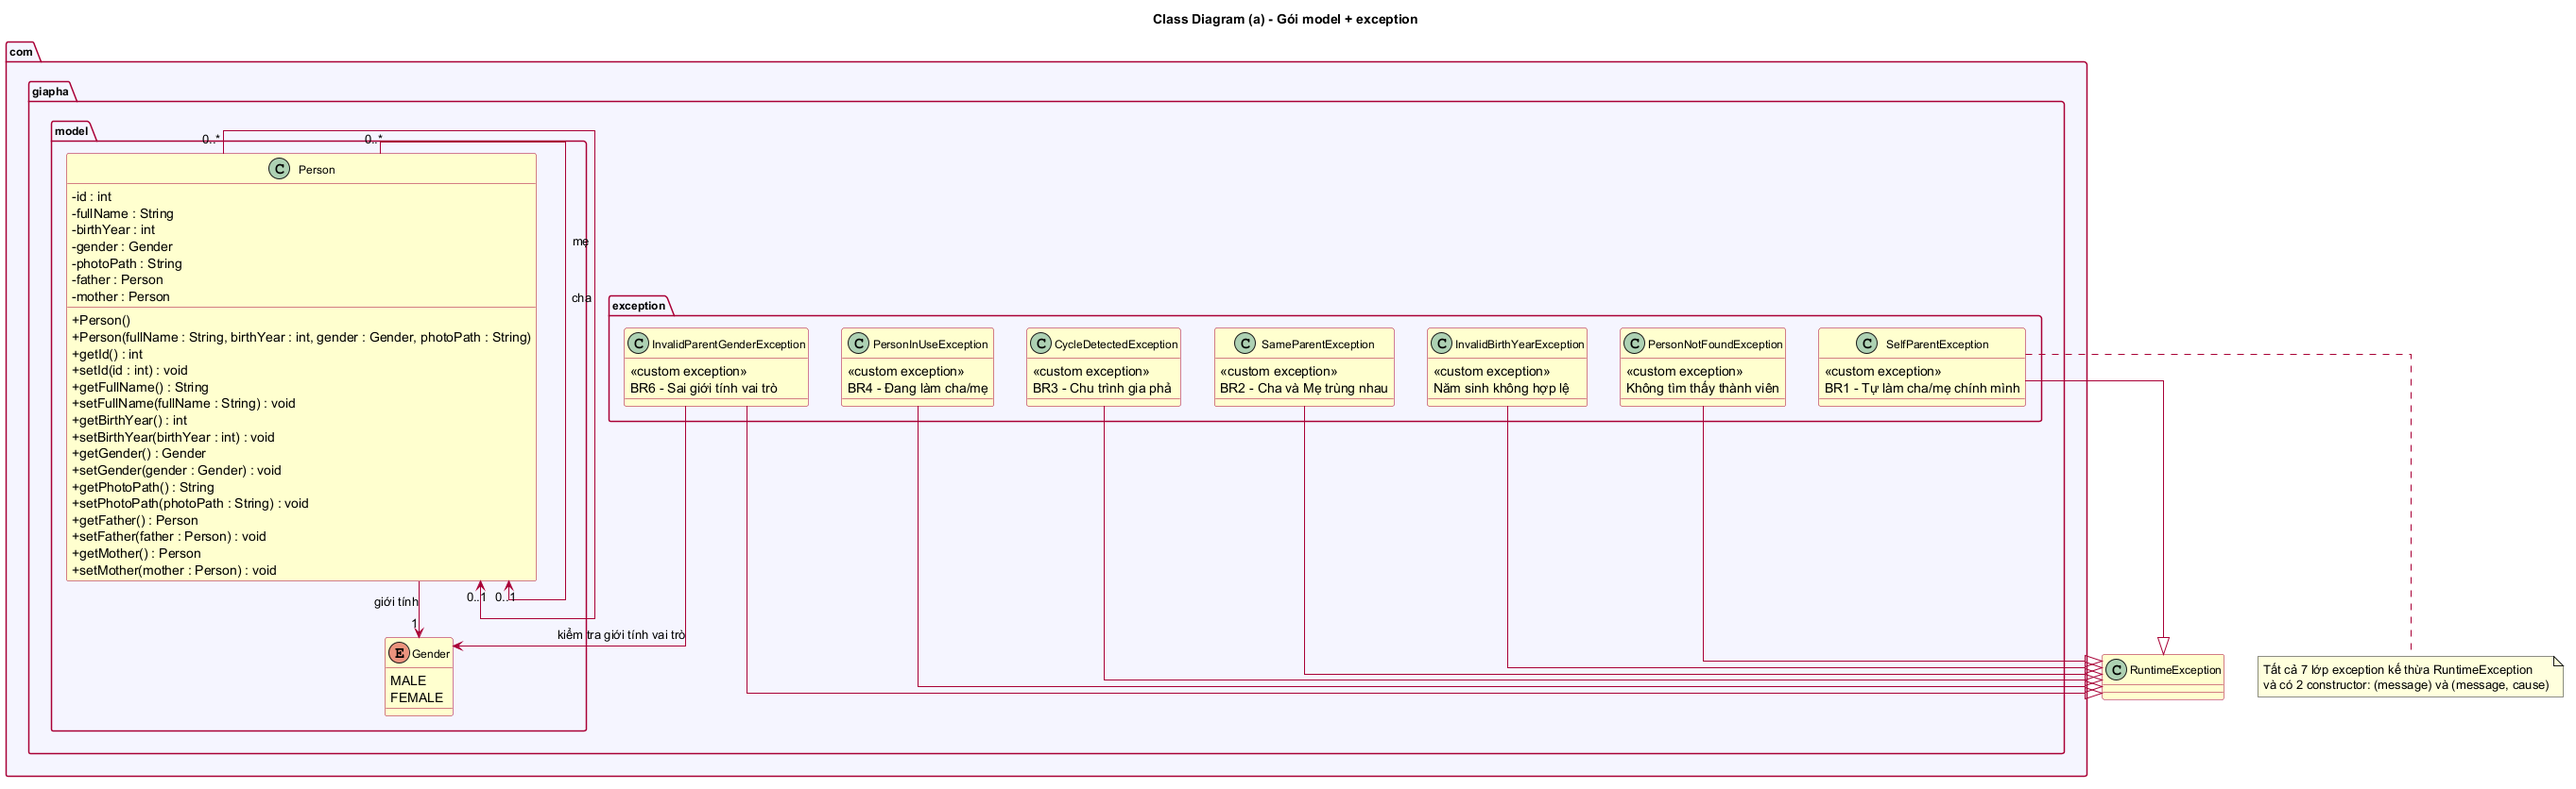
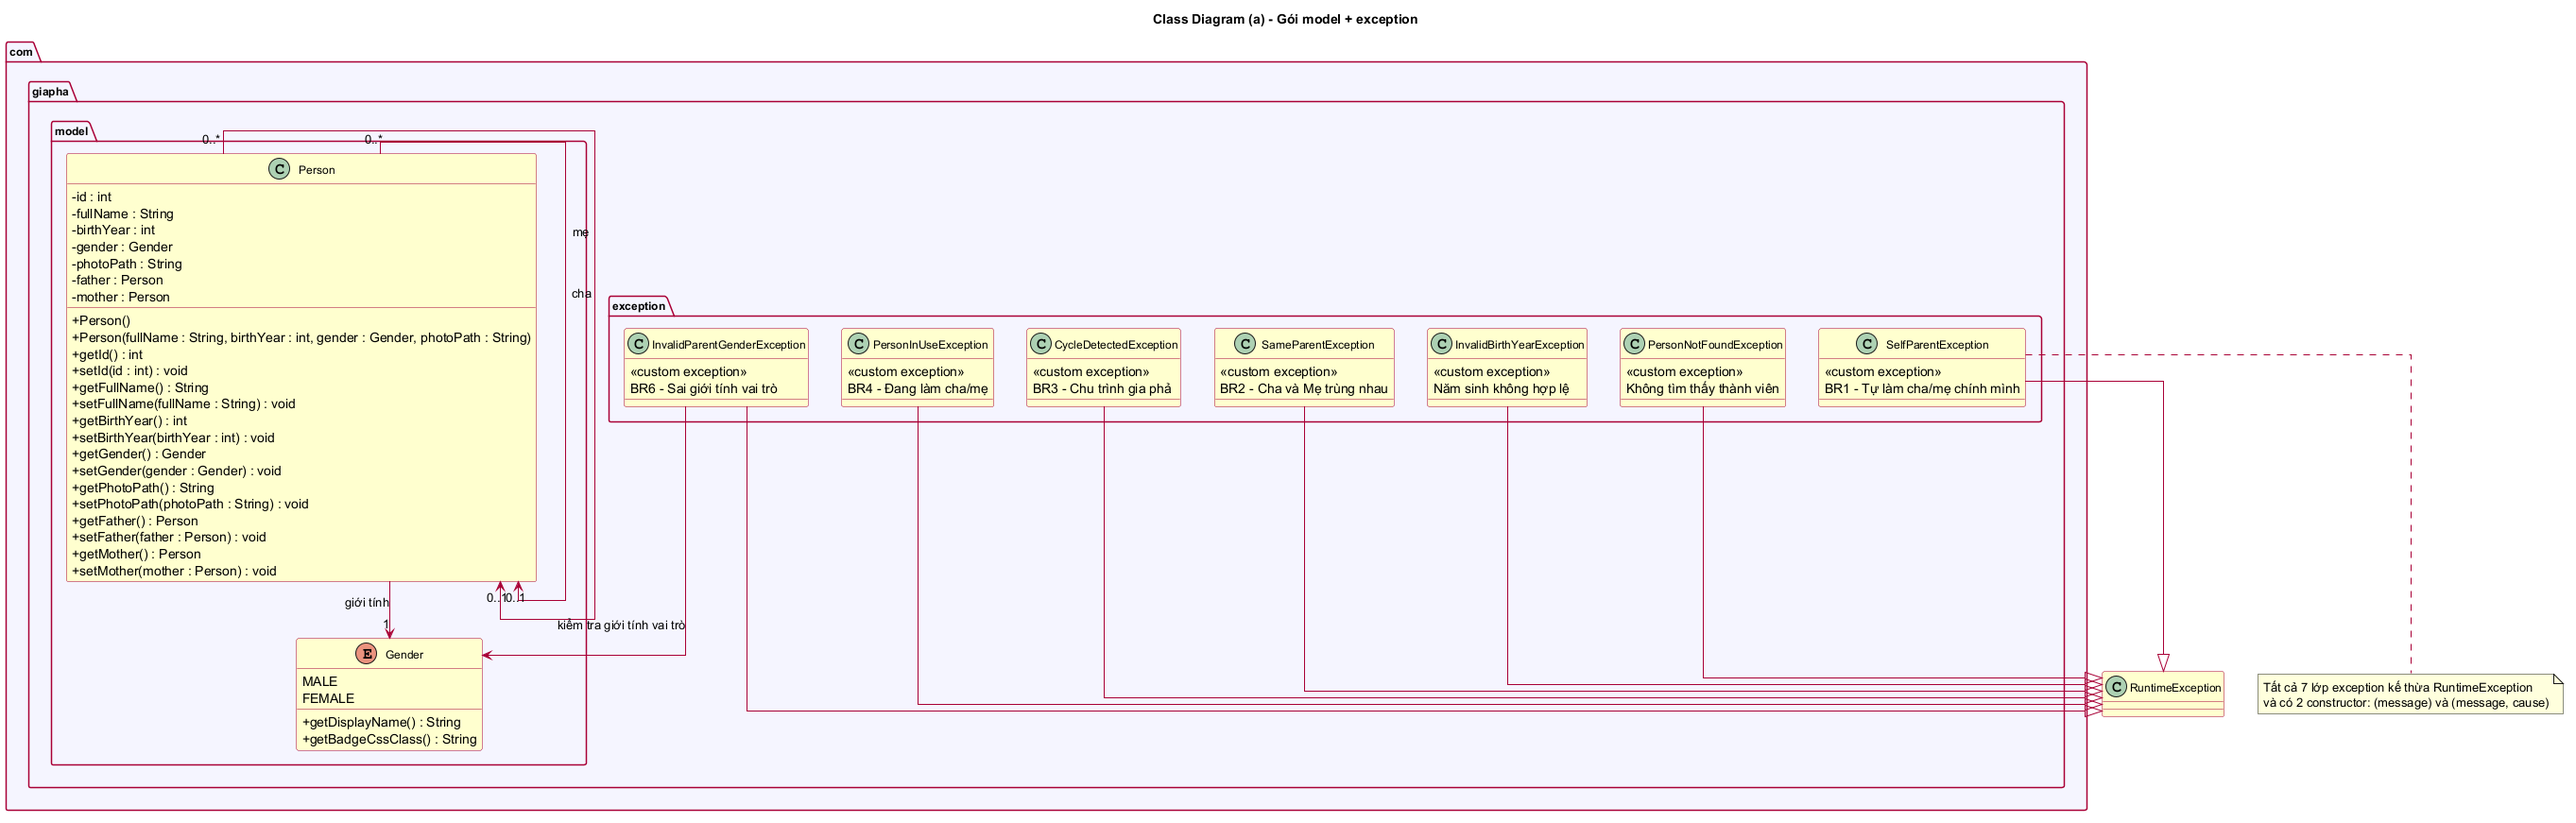
test: cover Gender display helpers and PersonAvatar update method

Changed region(s): [[0.0, 0.0622, 0.8107, 0.9952], [0.343, 0.8086, 0.9978, 0.9019], [0.4365, 0.0, 0.5613, 0.0311]]

diff --git a/docs/report/bao-cao-draft.md b/docs/report/bao-cao-draft.md
@@ -12,7 +12,7 @@
 | **Ngôn ngữ / nền tảng** | Java 25, JavaFX 23, MySQL/MariaDB, JDBC thuần, Maven |
 | **Mô hình kiến trúc** | Kiến trúc phân tầng (Layered Architecture) + MVC |
 | **Module hệ thống** | JPMS — module `com.giapha` (`module-info.java`) |
-| **Kiểm thử** | JUnit 5 — 138 test mặc định + 26 test tag `javafx` |
+| **Kiểm thử** | JUnit 5 — 188 test mặc định + 30 test tag `javafx` |
 | **Mã nguồn** | <https://github.com/minhchien170704/do-an-gia-pha> |
 
 ---
@@ -693,15 +693,18 @@ Bộ kiểm thử dùng **JUnit 5** (`junit-jupiter` 5.10.2) + `maven-surefire-p
 |---|---|---|
 | `FamilyTreeServiceTest` | 44 | BR1–BR6, TC01–TC14, TC-CLEAR-01…05, cô lập dữ liệu |
 | `PersonControllerTest` | 25 | Điều phối View ↔ Service, xử lý exception, callback điều hướng |
+| `PersonControllerAbstractionTest` | 23 | Fake `FormDataSource`/`Navigator`/`PeopleListSource` — KHÔNG cần JavaFX Toolkit |
 | `LargeSampleDataTest` | 22 | Bộ dữ liệu mẫu 30 người / 5 thế hệ (BR1–BR6, validation, ràng buộc CSDL, an toàn DROP DB) |
+| `DataIntegrityTest` | 19 | GĐ1: toàn vẹn dữ liệu ảnh + đồng nhất BR1–BR6 |
 | `ImageManagerTest` | 12 | Định dạng ảnh, copy vào `./images/`, dọn file an toàn |
 | `PngWriterTest` | 11 | Chữ ký PNG, khối IHDR/IDAT/IEND, CRC32, nén zlib |
 | `AtomicUpdateAndBr5Test` | 9 | Cập nhật nguyên tử (cha/mẹ + thông tin cá nhân), BR5 trong luồng lưu của form |
+| `GenderTest` | 8 | Nhãn hiển thị + CSS class của enum `Gender` — KHÔNG cần JavaFX Toolkit |
 | `DatabaseConnectionTest` | 7 | Kết nối MySQL, metadata, bảng `PERSON`, kiểm chứng DB chính không bị đổi |
 | `JdbcPersonRepositoryConnectionTest` | 5 | Quyền sở hữu `Connection`: repo tự mở thì tự đóng, Connection ngoài thì không đóng |
 | `BackendInitializationTest` | 3 | Kiểm tra kết nối MySQL thật trước khi hiển thị giao diện |
-| **Tổng (mặc định)** | **138** | `mvn clean test` |
-| `AvatarFallbackTest` + `JavaFxViewTest` (tag `javafx`) | 26 | Chạy riêng bằng `mvn test -Pjavafx-tests` |
+| **Tổng (mặc định)** | **188** | `mvn clean test` |
+| `AvatarFallbackTest` + `JavaFxViewTest` (tag `javafx`) | 30 | Chạy riêng bằng `mvn test -Pjavafx-tests` |
 
 ### 5.3. Bảng test case — bộ dữ liệu mẫu 30 người / 5 thế hệ
 
@@ -768,10 +771,13 @@ mvn clean test
 Kết quả thu được trên môi trường phát triển (Windows, JDK 25, MySQL/MariaDB đang chạy):
 
 ```
-[INFO] Tests run: 25, Failures: 0, Errors: 0, Skipped: 0 -- in com.giapha.controller.PersonControllerTest
 [INFO] Tests run:  9, Failures: 0, Errors: 0, Skipped: 0 -- in com.giapha.controller.AtomicUpdateAndBr5Test
+[INFO] Tests run: 19, Failures: 0, Errors: 0, Skipped: 0 -- in com.giapha.controller.DataIntegrityTest
+[INFO] Tests run: 23, Failures: 0, Errors: 0, Skipped: 0 -- in com.giapha.controller.PersonControllerAbstractionTest
+[INFO] Tests run: 25, Failures: 0, Errors: 0, Skipped: 0 -- in com.giapha.controller.PersonControllerTest
 [INFO] Tests run:  3, Failures: 0, Errors: 0, Skipped: 0 -- in com.giapha.database.BackendInitializationTest
 [INFO] Tests run:  7, Failures: 0, Errors: 0, Skipped: 0 -- in com.giapha.database.DatabaseConnectionTest
+[INFO] Tests run:  8, Failures: 0, Errors: 0, Skipped: 0 -- in com.giapha.model.GenderTest
 [INFO] Tests run:  5, Failures: 0, Errors: 0, Skipped: 0 -- in com.giapha.repository.JdbcPersonRepositoryConnectionTest
 [INFO] Tests run: 44, Failures: 0, Errors: 0, Skipped: 0 -- in com.giapha.service.FamilyTreeServiceTest$DataIsolation
 [INFO] Tests run:  0, Failures: 0, Errors: 0, Skipped: 0 -- in com.giapha.service.FamilyTreeServiceTest
@@ -779,25 +785,25 @@ Kết quả thu được trên môi trường phát triển (Windows, JDK 25, My
 [INFO] Tests run: 12, Failures: 0, Errors: 0, Skipped: 0 -- in com.giapha.util.ImageManagerTest
 [INFO] Tests run: 11, Failures: 0, Errors: 0, Skipped: 0 -- in com.giapha.util.PngWriterTest
 [INFO] Results:
-[INFO] Tests run: 138, Failures: 0, Errors: 0, Skipped: 0
+[INFO] Tests run: 188, Failures: 0, Errors: 0, Skipped: 0
 [INFO] BUILD SUCCESS
-[INFO] Total time:  20.801 s
+[INFO] Total time:  13.162 s
 ```
 
 | Chỉ số | Giá trị |
 |---|---|
-| Tổng test thực thi | **138** |
+| Tổng test thực thi | **188** |
 | Failures | **0** |
 | Errors | **0** |
 | Skipped | **0** |
-| Thời gian | ~21 giây |
+| Thời gian | ~13 giây |
 | Kết quả | **BUILD SUCCESS** |
 
 **Ghi chú về cách đọc log Surefire:** Surefire ghi **hai** dòng cho cùng một lớp
 khi lớp đó có test lồng `@Nested` — dòng `FamilyTreeServiceTest$DataIsolation`
 (44 test) và dòng `FamilyTreeServiceTest` (0 test, là *vỏ rỗng* vì mọi test đã
-được gán cho container lồng). **Chỉ dòng tổng cuối cùng (121) là con số chuẩn xác.**
-Dòng này **không** bao gồm 26 test tag `javafx` (chạy riêng bằng
+được gán cho container lồng). **Chỉ dòng tổng cuối cùng (188) là con số chuẩn xác.**
+Dòng này **không** bao gồm 30 test tag `javafx` (chạy riêng bằng
 `mvn test -Pjavafx-tests`).
 
 ### 5.6. Chạy các nhóm test riêng
@@ -849,7 +855,7 @@ Hệ thống đã hoàn thành đầy đủ các yêu cầu của đề tài:
   tầng CSDL bằng `CHECK` constraint + `TRIGGER` + `ON DELETE RESTRICT`.
 - Sơ đồ cây gia phả 2D có zoom/pan, xuất PNG toàn sơ đồ và in ấn qua `PrinterJob`.
 - Kiến trúc phân tầng rõ ràng, tuân thủ Dependency Inversion, không phụ thuộc framework.
-- 138 test tự động + 26 test JavaFX, tất cả đều PASS; database chính `gia_pha` được
+- 188 test tự động + 30 test JavaFX, tất cả đều PASS; database chính `gia_pha` được
   bảo vệ khỏi mọi thao tác ghi của test.
 - Cập nhật thành viên là **nguyên tử**: kiểm tra toàn bộ (cha/mẹ + thông tin cá nhân)
   trước, ghi bằng một câu `UPDATE` duy nhất — không có trạng thái "cập nhật một nửa".
@@ -864,7 +870,7 @@ Hệ thống đã hoàn thành đầy đủ các yêu cầu của đề tài:
 | **Không phụ thuộc framework, dễ trình bày trong đồ án OOP** | Chỉ JDK + JavaFX + JDBC thuần — mọi lớp, mọi mối quan hệ đều do tay viết, phù hợp mục tiêu môn học. |
 | **Thông báo lỗi thân thiện** | Mỗi quy tắc có exception riêng → thông báo tiếng Việt đúng nguyên nhân, không lộ stack trace kỹ thuật ra UI. |
 | **Mô hình hóa quan hệ phả hệ bằng OOP thuần** | `Person.father` / `Person.mother` là tham chiếu đối tượng; thuật toán DFS/BFS chạy trên object graph, không phải trên SQL phức tạp. |
-| **Kiểm thử tự động đầy đủ và an toàn** | 164 test (138 + 26 JavaFX); mọi test ghi vào DB riêng `*_test` tự tạo/tự xóa; có bảo vệ chống DROP nhầm database chính. |
+| **Kiểm thử tự động đầy đủ và an toàn** | 218 test (188 + 30 JavaFX); mọi test ghi vào DB riêng `*_test` tự tạo/tự xóa; có bảo vệ chống DROP nhầm database chính. |
 | **Sơ đồ 2D đẹp và linh hoạt** | Gom khối gia đình cha–mẹ, canh giữa con giữa hai vị trí, vẽ đường nối ở mức cá nhân (không nối nhầm vợ/chồng), hỗ trợ zoom 0.25×–2.5× và pan. |
 | **Tự quản lý ảnh đại diện** | `PersonAvatar` fallback về chữ cái đầu khi thiếu ảnh / ảnh hỏng — **không bao giờ** ném exception ra giao diện; ảnh lưu bằng đường dẫn tương đối nên CSDL không phụ thuộc vị trí cài đặt. |
 | **Tài liệu đầy đủ, đồng bộ** | 18 sơ đồ PlantUML render sẵn, README chi tiết, bộ test data + bảng test case, 3 tài liệu báo cáo/bảo vệ/demo trong `docs/report/`. |

diff --git a/README.md b/README.md
@@ -153,7 +153,7 @@ mvn clean package        # đóng gói thành target/do-an-gia-pha-1.0-SNAPSHOT.
 mvn javafx:run
 ```
 
-### 4.3. Chạy toàn bộ kiểm thử (138 test cases)
+### 4.3. Chạy toàn bộ kiểm thử (188 test cases)
 
 ```bash
 mvn clean test
@@ -176,7 +176,7 @@ mvn clean test
 `gia_pha` **không bao giờ** bị test ghi vào. Nếu CSDL không sẵn sàng, các test đó được đánh dấu
 `SKIPPED` (không tính là `FAILED`).
 
-### 4.4. Chạy riêng các test cần JavaFX Toolkit (tag `javafx` — 26 test cases)
+### 4.4. Chạy riêng các test cần JavaFX Toolkit (tag `javafx` — 30 test cases)
 
 ```bash
 mvn test -Pjavafx-tests
@@ -225,8 +225,8 @@ mysql -u root -p < database/schema.sql
 
 ### 4.8. Giải thích lệch số liệu khi đọc log Surefire
 
-Nếu bạn cộng tay từng dòng log Surefire (25 + 7 + 44 + 0 + 22 + 12 + 11 + 9 + 5 + 3) thì ra **138**,
-không phải 142. Con số 142 xuất hiện khi **báo cáo cũ** cộng thêm một dòng
+Nếu bạn cộng tay từng dòng log Surefire (25 + 9 + 19 + 23 + 3 + 7 + 8 + 5 + 44 + 0 + 22 + 12 + 11) thì ra **188**,
+không phải 210. Con số 210 xuất hiện khi **báo cáo cũ** cộng thêm một dòng
 "22 test — FamilyTreeServiceTest (phần lồng)" *cùng* với dòng `FamilyTreeServiceTest$DataIsolation`
 đã chứa 44 test — tức là **đếm trùng** các test của lớp lồng `@Nested`.
 
@@ -243,11 +243,11 @@ Cơ chế thật (đã kiểm chứng qua `target/surefire-reports/TEST-*.xml`):
 
 ```
 [INFO] Results:
-[INFO] Tests run: 138, Failures: 0, Errors: 0, Skipped: 0
+[INFO] Tests run: 188, Failures: 0, Errors: 0, Skipped: 0
 [INFO] BUILD SUCCESS
 ```
 
-Dòng tổng này **không** bao gồm 26 test tag `javafx` (chạy riêng qua `mvn test -Pjavafx-tests`).
+Dòng tổng này **không** bao gồm 30 test tag `javafx` (chạy riêng qua `mvn test -Pjavafx-tests`).
 
 ### 4.9. Ghi chú về xung đột JPMS ↔ JUnit 5
 
@@ -608,7 +608,7 @@ Sơ đồ lớp gốc có 25 lớp + 7 exception → ảnh render rất rộng. 
 | **6.2** | Xuất PNG (`PngWriter` thuần `java.util.zip`) và In ấn (`javafx.print.PrinterJob`) | ✅ Hoàn thành |
 | **6.3** | Nới validate năm sinh xuống `1000 <= birthYear <= Year.now()` | ✅ Hoàn thành |
 | **6.4** | Custom exception riêng cho BR2 (`SameParentException`) và BR6 (`InvalidParentGenderException`) | ✅ Hoàn thành |
-| **6.5** | Chuyển toàn bộ kiểm thử sang **JUnit 5** + `maven-surefire-plugin` (138 test mặc định + 26 test tag `javafx`) | ✅ Hoàn thành |
+| **6.5** | Chuyển toàn bộ kiểm thử sang **JUnit 5** + `maven-surefire-plugin` (188 test mặc định + 30 test tag `javafx`) | ✅ Hoàn thành |
 | **6.6** | Bộ dữ liệu mẫu & bảng test case trong `test-data/` (`LargeSampleDataTest`, 22 test) | ✅ Hoàn thành |
 | **6.7** | **Cách ly dữ liệu test**: mọi lớp test dùng database riêng `*_test`; `TestDatabaseManager` quản lý vòng đời + `assertSafeToDrop` | ✅ Hoàn thành |
 | **6.8** | **Đồng bộ hóa toàn bộ sơ đồ PlantUML với code hiện tại**: class-diagram tách 4 sơ đồ theo gói, component/deployment/use-case cập nhật, thêm sequence + activity cho "Xuất PNG/In" và "Chọn & lưu ảnh đại diện" | ✅ Hoàn thành |

diff --git a/AGENTS.md b/AGENTS.md
@@ -103,7 +103,7 @@ MySQL / MariaDB
 com.giapha
 ├── Main.java                          # Điểm khởi chạy ứng dụng JavaFX
 ├── model/
-│   ├── Gender.java                    # Enum: MALE, FEMALE
+│   ├── Gender.java                    # Enum: MALE, FEMALE + getDisplayName() / getBadgeCssClass()
 │   └── Person.java                    # Entity chứa thông tin cá nhân & tham chiếu cha/mẹ
 ├── exception/
 │   ├── CycleDetectedException.java    # Ném khi phát hiện chu trình gia phả (BR3)
@@ -164,10 +164,12 @@ src/test/java/com/giapha
 ├── util/
 │   ├── ImageManagerTest.java          # 12 test — định dạng ảnh, copy, dọn file
 │   └── PngWriterTest.java             # 11 test — chữ ký PNG, khối IHDR/IDAT/IEND, CRC32, nén zlib
+├── model/
+│   └── GenderTest.java                # 8 test — nhãn hiển thị + CSS class (KHÔNG cần JavaFX Toolkit)
 ├── testdata/
 │   └── LargeSampleDataTest.java       # 22 test — bộ dữ liệu mẫu 30 người / 5 thế hệ (DB riêng gia_pha_test)
 └── view/
-    ├── AvatarFallbackTest.java        # 14 test (tag "javafx") — cơ chế fallback ảnh đại diện
+    ├── AvatarFallbackTest.java        # 18 test (tag "javafx") — cơ chế fallback ảnh đại diện + update() tại chỗ
     └── JavaFxViewTest.java            # 12 test (tag "javafx") — tích hợp UI → MySQL
 ```
 
@@ -294,7 +296,7 @@ mvn clean compile
 mvn javafx:run
 ```
 
-### Chạy toàn bộ kiểm thử tự động (JUnit 5 — 181 test cases):
+### Chạy toàn bộ kiểm thử tự động (JUnit 5 — 188 test cases):
 ```bash
 mvn clean test
 ```
@@ -303,7 +305,7 @@ mvn clean test
 >
 > Bộ test mặc định **KHÔNG** chạy các test cần JavaFX Toolkit (tag `javafx`) — xem phần bên dưới.
 
-### Chạy riêng các test cần JavaFX Toolkit (tag `javafx` — 26 test cases):
+### Chạy riêng các test cần JavaFX Toolkit (tag `javafx` — 30 test cases):
 ```bash
 mvn test -Pjavafx-tests
 ```

diff --git a/docs/report/kich-ban-demo.md b/docs/report/kich-ban-demo.md
@@ -33,7 +33,7 @@
 | 3:35 – 3:55 | **LỖI 3** — Tạo chu trình gia phả (BR3) | Thấy DFS phát hiện chu trình |
 | 3:55 – 4:15 | **LỖI 4** — Xóa người đang làm cha/mẹ (BR4) | Thấy chặn xóa |
 | 4:15 – 4:30 | **CẢNH BÁO** — Năm sinh cha ≥ con (BR5) | Thấy cảnh báo không chặn |
-| 4:30 – 4:50 | Chạy `mvn clean test` (nếu có môi trường) | Thấy 138 test PASS |
+| 4:30 – 4:50 | Chạy `mvn clean test` (nếu có môi trường) | Thấy 188 test PASS |
 | 4:50 – 5:00 | Tổng kết, mở câu hỏi | |
 
 > **Mẹo:** nếu bị hỏi giữa lúc demo, hãy nhảy sang phần **"Câu hỏi thường gặp
@@ -383,12 +383,12 @@ mvn clean test
 **Kết quả mong đợi (cuối output):**
 
 ```
-[INFO] Tests run: 138, Failures: 0, Errors: 0, Skipped: 0
+[INFO] Tests run: 188, Failures: 0, Errors: 0, Skipped: 0
 [INFO] BUILD SUCCESS
 ```
 
 **Cách nói:**
-> "Bộ test dùng JUnit 5, 138 test mặc định (thêm 26 test JavaFX chạy riêng bằng `mvn test -Pjavafx-tests`), tất cả PASS. Điểm quan trọng: **mọi** test ghi
+> "Bộ test dùng JUnit 5, 188 test mặc định (thêm 30 test JavaFX chạy riêng bằng `mvn test -Pjavafx-tests`), tất cả PASS. Điểm quan trọng: **mọi** test ghi
 > vào CSDL đều dùng database riêng tên kết thúc bằng `_test` — được tự tạo ở
 > `@BeforeAll` và tự xóa ở `@AfterAll`. Ngoài ra `TestDatabaseManager.assertSafeToDrop()`
 > bắt buộc tên database phải kết thúc bằng `_test`, nếu không khớp thì ném

diff --git a/docs/report/bao-ve-cheat-sheet.md b/docs/report/bao-ve-cheat-sheet.md
@@ -1151,8 +1151,8 @@ cấu hình hạ tầng, các tầng bên trên không cần (và không đượ
 
 | Con số | Giá trị | Nơi dùng |
 |---|---|---|
-| Tổng test mặc định | **138** (0 fail, 0 error, 0 skip) | `mvn clean test` |
-| Test tag `javafx` | **26** | `mvn test -Pjavafx-tests` |
+| Tổng test mặc định | **188** (0 fail, 0 error, 0 skip) | `mvn clean test` |
+| Test tag `javafx` | **30** | `mvn test -Pjavafx-tests` |
 | Test case trong `test-data/test-cases.md` | **22** (22 PASS) | `LargeSampleDataTest` |
 | Lớp exception | **7**, đều `extends RuntimeException` | `com.giapha.exception.*` |
 | Quy tắc nghiệp vụ | **BR1–BR6** | `FamilyTreeService` |
